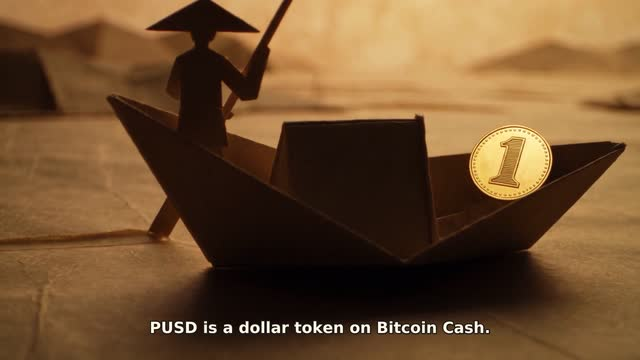
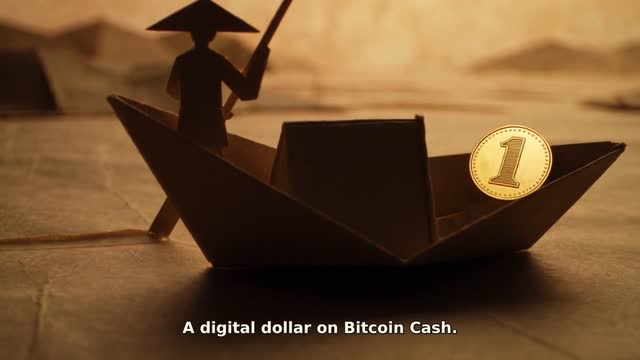
Plain caption for the dollar token, wallet line on the end card, 16:9 cut again
Cue 5 now reads "A digital dollar on Bitcoin Cash." (fact pusd-token). The end card
second line is "Get a wallet: bitcoincash.org", backed by a new sourced fact
(wallet-link). Tests check that every end card line fits the frame width and that
end card claims carry a sourced fact. 16:9 measured again: all limits pass.

Changed region(s): [[0.2188, 0.8861, 0.7812, 0.9472]]

diff --git a/tests/test_config.py b/tests/test_config.py
@@ -48,6 +48,16 @@ class ConfigTest(unittest.TestCase):
             if c["fact"]:
                 self.assertRegex(facts, r"\| `" + re.escape(c["fact"]) + r"` \|.*https://", c["text"])
 
+    def test_end_card_claims_are_sourced(self):
+        facts = load("docs/FACTS.md")
+        e = self.film["end_card"]
+        for line, fact in e.get("line_facts", {}).items():
+            self.assertIn(line, e["lines"])
+            self.assertRegex(facts, r"\| `" + re.escape(fact) + r"` \|.*https://", line)
+        for line in e["lines"]:
+            if re.search(r"wallet|dollar|fee|cent", line, re.I):
+                self.assertIn(line, e.get("line_facts", {}), f"end card claim without a fact: {line}")
+
     def test_no_forbidden_words_in_captions(self):
         bad = re.compile(r"guarantee|risk.?free|always \$?1|trustless|revolutionary|financial advice|\u2014|!", re.I)
         for c in self.cues:

diff --git a/tests/test_captions.py b/tests/test_captions.py
@@ -78,6 +78,15 @@ class CaptionsTest(unittest.TestCase):
             usable = f["output"][v]["width"] * (1 - 2 * 0.06)
             self.assertLessEqual(c["max_chars_per_line"][v] * c["size"][v] * 0.6, usable, v)
 
+    def test_end_card_lines_fit_frame_width(self):
+        f = film()
+        e = f["end_card"]
+        for v in ("16x9", "9x16"):
+            usable = f["output"][v]["width"] * (1 - 2 * 0.06)
+            for i, line in enumerate(e["lines"]):
+                size = e["size"][v][0 if i == 0 else 1]
+                self.assertLessEqual(len(line) * size * 0.6, usable, f"{v}: {line}")
+
 
 if __name__ == "__main__":
     unittest.main()

diff --git a/docs/MEASURED.md b/docs/MEASURED.md
@@ -30,18 +30,21 @@ The final film loudness (-14 LUFS integrated, true peak at most -1 dBTP) is set 
 
 ## Final films
 
-`python3 tools/edit.py 16x9` then `python3 tools/measure.py 16x9 --write` (2026-11-16). The 1080p picture is the 720p
+`python3 tools/edit.py 16x9` then `python3 tools/measure.py 16x9 --write` (2026-11-18, after the cue 5 and end card
+wording change; same clips, windows and mix as 2026-11-16). The 1080p picture is the 720p
 clips scaled with ffmpeg lanczos; no AI upscaler. Loudness: ffmpeg `ebur128=peak=true` on the final file. Speech: local
 check with voice activity detection (decision 0004). caption_cues = cues whose caption band differs from the clean
 master at the cue middle (decision 0005); the gaps between cues must not differ. Frames read by a person:
 `docs/frames/16x9-cue-01.jpg` to `-10.jpg`.
 
-Read in the frames (2026-11-16): every cue shows its full config text in white with a dark outline, centred above the
+Read in the frames (2026-11-18): every cue shows its full config text in white with a dark outline, centred above the
 bottom edge, one line except cue 8 ("The fare for a real / transfer: 219 satoshis.") and cue 10 ("Bitcoin Cash. Money
-that / crosses for almost nothing."); no caption covers the coin. Cue 10 sits under the end card, which shows
-"Bitcoin Cash" and "bitcoincash.org" over the dimmed last frame of the jetty shot.
+that / crosses for almost nothing."); no caption covers the coin. Cue 5 reads "A digital dollar on Bitcoin Cash." on one
+line under the boat, with the coin clear above it. Cue 10 sits under the end card, which shows "Bitcoin Cash" and "Get a
+wallet: bitcoincash.org" in full over the dimmed last frame of the jetty shot; neither card line touches the caption.
 
-`python3 tools/edit.py 9x16` then `python3 tools/measure.py 9x16 --write` (2026-11-16). Cut from the same landscape
+`python3 tools/edit.py 9x16` then `python3 tools/measure.py 9x16 --write` (2026-11-16, before the cue 5 and end card
+wording change of 2026-11-18; this row is replaced when 9:16 is cut again). Cut from the same landscape
 clips, windows and mix as 16:9 (decision 0006): the full picture at 1080 x 608 (lanczos from 1280 x 720) centred over a
 blurred, dimmed copy of the same frame. The 9:16 caption band (rows 68% to 80%) was measured here for the first time:
 weakest cue 9.78, largest gap 0.24, against limits 4.0 and 1.5. Frames read by a person: `docs/frames/9x16-cue-01.jpg`
@@ -52,7 +55,7 @@ drawn over the dimmed jetty picture in the middle of the frame.
 
 | version | width | height | duration_s | audio | lufs_i | true_peak_db | whisper_words | caption_cues | sha256 |
 |---|---|---|---|---|---|---|---|---|---|
-| 16x9 | 1920 | 1080 | 60.0 | yes | -13.9 | -1.5 | 0 | 10/10 | 50ca1e0997c12f70913d8c74c49626dff723ab744d3a7419c8a572406c10b0d8 |
+| 16x9 | 1920 | 1080 | 60.0 | yes | -13.9 | -1.5 | 0 | 10/10 | aeda33e02351f7d789df4431b3ded04eb64301f94ce4525003ea2001e14b2a73 |
 | 9x16 | 1080 | 1920 | 60.0 | yes | -13.9 | -1.5 | 0 | 10/10 | 85f0dc02cc32d291e6d9382720a0662d62b7eb053ce0cc99029bef76b1e815dc |
 
 <!-- detail:16x9 -->
@@ -66,12 +69,12 @@ Video h264 High yuv420p 24.0 fps, 60.0 s; audio aac 48000 Hz 2 ch, 60.0 s. Silen
 | cue 2 | 5.8 | 9.81 | yes |
 | cue 3 | 13.25 | 8.29 | yes |
 | cue 4 | 18.5 | 7.2 | yes |
-| cue 5 | 25.75 | 9.9 | yes |
+| cue 5 | 25.75 | 8.4 | yes |
 | cue 6 | 31.75 | 7.9 | yes |
 | cue 7 | 37.25 | 8.52 | yes |
 | cue 8 | 43.5 | 10.29 | yes |
 | cue 9 | 49.5 | 6.58 | yes |
-| cue 10 | 57.0 | 15.77 | yes |
+| cue 10 | 57.0 | 15.76 | yes |
 | gap 2 | 3.4 | 0.69 | yes |
 | gap 3 | 9.5 | 0.58 | yes |
 | gap 4 | 15.75 | 0.81 | yes |
@@ -81,7 +84,7 @@ Video h264 High yuv420p 24.0 fps, 60.0 s; audio aac 48000 Hz 2 ch, 60.0 s. Silen
 | gap 8 | 40.25 | 0.58 | yes |
 | gap 9 | 46.25 | 0.65 | yes |
 | gap 10 | 53.5 | 0.64 | yes |
-| gap 11 | 59.75 | 0.11 | yes |
+| gap 11 | 59.75 | 0.12 | yes |
 <!-- /detail:16x9 -->
 
 <!-- detail:9x16 -->

diff --git a/docs/FACTS.md b/docs/FACTS.md
@@ -10,6 +10,7 @@ date it was read. A claim that cannot be backed by a source here is removed from
 | `fee-usd` | That fee was less than a tenth of a US cent | Arithmetic from `fee-tx` and `bch-price`: 219 sat = 0.00000219 BCH; 0.00000219 x 201.24 USD = 0.000441 USD = 0.044 cents. The explorer reports 0.000439 USD at the time of the transaction (`fee_usd` at `https://api.blockchair.com/bitcoin-cash/dashboards/transaction/9b9586cbd567b0560c3a7d2f2137c244c425582f1ecd378154184eb6186ee588`). Both are below 0.1 cents. This is one measured transfer, not a promise about every future fee | 2026-11-16 |
[1 lines of base64/hex data omitted]
 | `pusd-design` | PUSD is designed to hold a value of one US dollar | ParyonUSD documentation, Introduction: "Users deposit BCH as collateral to mint PUSD tokens, which are designed to maintain a value of $1." Glossary: "designed to maintain a value of $1." `https://paryonusd.com/docs/getting-started/glossary` | 2026-11-16 |
+| `wallet-link` | bitcoincash.org points visitors to wallets for Bitcoin Cash | `https://bitcoincash.org` (HTTP 200): the page has a "Wallets" section that links to wallet apps, among them `https://wallet.bitcoin.com/`, `https://cakewallet.com/`, `https://stackwallet.com/` and `https://www.freedomwallet.com/`. The end card says only "Get a wallet: bitcoincash.org" and names no wallet | 2026-11-18 |
 
 ## Wording limits
 

diff --git a/docs/STORYBOARD.md b/docs/STORYBOARD.md
@@ -9,11 +9,11 @@ Clips: `config/shots.json`. Captions: `config/captions.en.json`. End card text i
 | 3.6 to 8.0 | The chest of coins overflows; travellers walk away lighter | The old bridge takes a cut from everyone. | |
 | 8.0 to 15.5 | Camera drifts down under the bridge to a small rower in a conical hat, seen from behind | One rower takes the river instead. | |
 | 16.0 to 22.0 | The rower sets one gold coin in the bow and pushes the paper sampan out | She carries one dollar across. | |
-| 22.0 to 34.5 | Golden dusk; long even oar strokes; the coin keeps its size and shine in the bow | PUSD is a dollar token on Bitcoin Cash. / It is designed to hold one dollar. | pusd-token, pusd-design |
+| 22.0 to 34.5 | Golden dusk; long even oar strokes; the coin keeps its size and shine in the bow | A digital dollar on Bitcoin Cash. / It is designed to hold one dollar. | pusd-token, pusd-design |
 | 35.0 to 40.0 | Paper waves rise and fall; a green light grows on the far bank | The coin does not shrink on the way. | |
 | 40.0 to 46.0 | Lantern-lit jetty; the coin is handed over whole | The fare for a real transfer: 219 satoshis. | fee-tx |
 | 46.5 to 54.0 | The rower pays a tiny fare at a paper jetty; many small boats cross | Less than a tenth of a cent. | fee-usd |
-| 54.0 to 60.0 | End card drawn by code: "Bitcoin Cash" and "bitcoincash.org" over a still of the river | Bitcoin Cash. Money that crosses for almost nothing. | fee-usd |
+| 54.0 to 60.0 | End card drawn by code: "Bitcoin Cash" and "Get a wallet: bitcoincash.org" over a still of the river | Bitcoin Cash. Money that crosses for almost nothing. | fee-usd, wallet-link |
 
 ## 9:16 version
 

diff --git a/README.md b/README.md
@@ -26,7 +26,7 @@ Measured by `tools/measure.py` on the final files (per-cue detail in [the measur
 
 | version | size | seconds | loudness | true peak | words heard | captions burned in | sha256 |
 |---|---|---|---|---|---|---|---|
-| 16:9 | 1920x1080, 24 fps | 60.0 | -13.9 LUFS | -1.5 dBTP | 0 | 10 of 10 cues | `50ca1e09...` |
+| 16:9 | 1920x1080, 24 fps | 60.0 | -13.9 LUFS | -1.5 dBTP | 0 | 10 of 10 cues | `aeda33e0...` |
 | 9:16 | 1080x1920, 24 fps | 60.0 | -13.9 LUFS | -1.5 dBTP | 0 | 10 of 10 cues | `85f0dc02...` |
 
 Both are H.264 High with AAC 48 kHz stereo. "Words heard" is a local speech recognition pass over the final audio; zero
